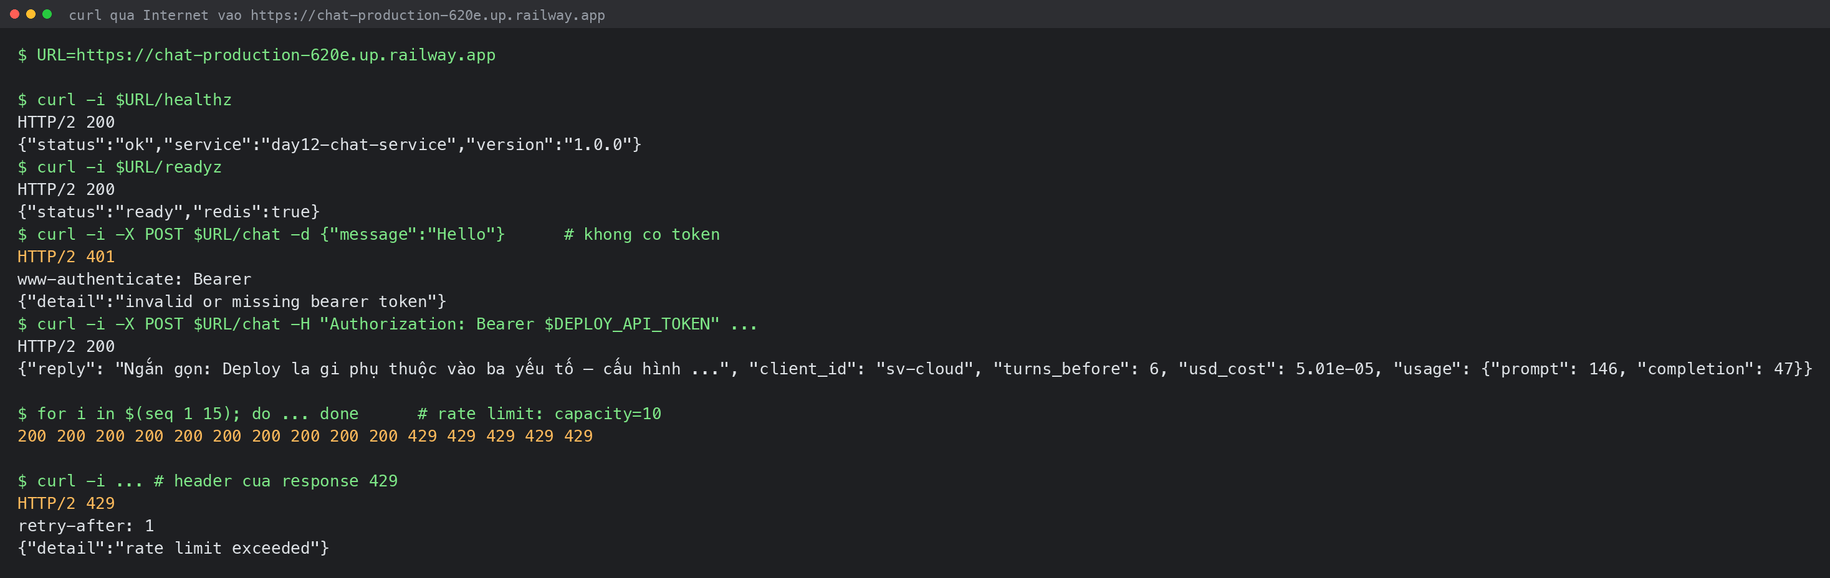
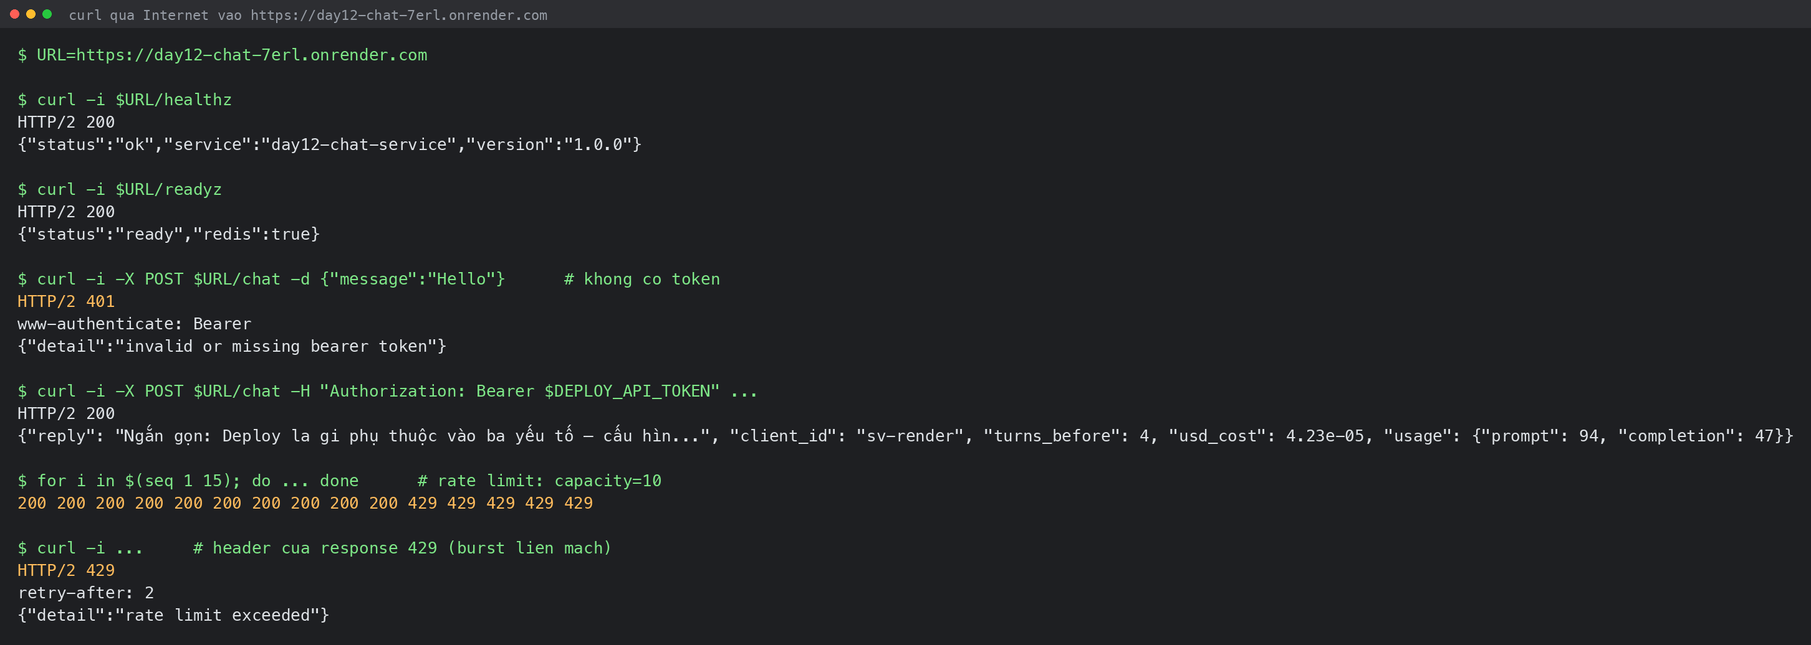
CP5: chuyển sang Render free, Public URL hoạt động
https://day12-chat-7erl.onrender.com  (Blueprint từ render.yaml, region oregon)
  - day12-chat (Web Service, runtime docker, healthCheckPath /healthz) Live
  - day12-chat-redis (Key Value, plan free) available
  - REDIS_URL lấy qua fromService/connectionString, API_TOKEN khai sync:false
    → không giá trị secret nào nằm trong repo
  - verify thật qua Internet: /healthz 200, /readyz 200 (redis: true),
    /chat 401 không token và 200 có token, 15 request -> 10x200 rồi 5x429,
    retry-after: 2, turns_before tăng 0->2->4 qua các lần service bị tạo lại

Sự cố khi apply Blueprint: ô API_TOKEN (sync:false) không lưu được giá trị.
Service Live, /healthz vẫn 200, nhưng /readyz và /chat có token trả 500 vì
Settings() raise ValidationError "api_token Field required". Đọc env-vars qua
Render API xác nhận biến hoàn toàn không tồn tại (5 biến, thiếu API_TOKEN),
sửa bằng PUT /v1/services/{id}/env-vars/API_TOKEN rồi redeploy.

Hình dạng lỗi khớp đúng thiết kế và đã viết lại câu 1 exercises.md quanh nó:
/healthz 200 vì không gọi get_settings(), /chat không token 401 vì auth chặn
trước khi đọc settings — chỉ đường đi thật sự cần secret mới vỡ.

Bản Railway đã xóa (URL trả 404) để không tiêu credit; lỗi $PORT gặp ở đó vẫn
giữ trong DEPLOYMENT.md và câu 10 vì nó thật và đáng giá — kèm nhận xét là
trên Render lỗi đó không xảy ra vì render.yaml không ghi đè CMD.

grade.py: phần bắt buộc 100/100, bonus 13/13.

diff --git a/DEPLOYMENT.md b/DEPLOYMENT.md
@@ -15,14 +15,25 @@
 
 | Mục | Nội dung |
 |-----|----------|
-| Public URL | https://chat-production-620e.up.railway.app |
-| Platform | Railway — project `day12-chat-2A202601650`, environment `production`, region `sfo` |
+| Public URL | https://day12-chat-7erl.onrender.com |
+| Platform | Render — Blueprint từ `render.yaml`, region `oregon`, plan `free` |
 | Ngày deploy | 2026-08-10 |
 
-Kiến trúc trên Railway: hai service trong cùng project — `chat` (build từ
-`Dockerfile`, multi-stage) và `Redis` (add-on `redis:8.2.1`, có volume 500MB).
-Hai service nói với nhau qua private network `redis.railway.internal`, nên
-Redis **không** mở ra Internet.
+Kiến trúc: Render đọc `render.yaml` ở gốc repo và tạo hai resource trong cùng
+một Blueprint —
+
+- **`day12-chat`** (Web Service, `runtime: docker`, build từ `Dockerfile`
+  multi-stage, `healthCheckPath: /healthz`)
+- **`day12-chat-redis`** (Key Value — tên mới của Render Redis, plan free)
+
+`REDIS_URL` không được viết ra ở đâu cả: `render.yaml` khai
+`fromService: { name: day12-chat-redis, type: redis, property: connectionString }`
+nên Render tự nội suy connection string lúc deploy. Còn `API_TOKEN` khai
+`sync: false` — Render không lưu giá trị vào repo mà hỏi lúc apply Blueprint.
+
+Lưu ý về free tier: web service **tự ngủ sau ~15 phút không có request**, và
+request đánh thức mất 30–60 giây. Lần gọi đầu tiên chậm là bình thường, không
+phải lỗi — `tests/test_cp5.py` đã tính tới điều này (`FIRST_CALL_TIMEOUT = 60`).
 
 ## Biến Môi Trường Đã Set Trên Cloud
 
@@ -30,26 +41,26 @@ Ghi tên biến và **nguồn giá trị**, không ghi giá trị:
 
 | Biến | Đã set | Ghi chú |
 |------|--------|---------|
-| `PORT` | ✅ | đặt `8000`, và service domain trỏ target port 8000 |
-| `API_TOKEN` | ✅ | token riêng cho production (khác token chạy ở máy), sinh bằng `secrets.token_urlsafe(32)`, set qua `railway variables --set-from-stdin` nên không lọt vào shell history hay repo |
-| `REDIS_URL` | ✅ | service reference `${{Redis.REDIS_URL}}` — Railway tự nội suy sang URL private của add-on, giá trị không nằm ở đâu trong repo |
+| `PORT` | ✅ | Render tự inject (`10000`); Dockerfile đọc `${PORT:-8000}` nên không cần khai trong `render.yaml` |
+| `API_TOKEN` | ✅ | `sync: false` trong `render.yaml` — giá trị chỉ nằm trên Render, sinh bằng `secrets.token_urlsafe(32)` |
+| `REDIS_URL` | ✅ | `fromService` → connection string của Key Value `day12-chat-redis`, Render tự nội suy |
 | `BUCKET_CAPACITY` | ✅ | 10 |
 | `REFILL_PER_MINUTE` | ✅ | 10 |
 | `DAILY_BUDGET_USD` | ✅ | 1.0 |
 | `LOG_LEVEL` | ✅ | INFO |
 
-Ở máy, `.env` (gitignored) giữ thêm `DEPLOY_API_TOKEN` — đúng giá trị
-`API_TOKEN` trên Railway — để `tests/test_cp5.py` gọi được `/chat` có xác thực.
+Ở máy, `.env` (gitignored) giữ thêm `DEPLOY_API_TOKEN` — đúng giá trị `API_TOKEN`
+trên Render — để `tests/test_cp5.py` gọi được `/chat` có xác thực.
 
 ## Lệnh Kiểm Tra
 
 ```bash
-URL=https://chat-production-620e.up.railway.app
+URL=https://day12-chat-7erl.onrender.com
 
 # 1. Liveness — mong đợi 200 {"status":"ok"}
 curl -i $URL/healthz
 
-# 2. Readiness — mong đợi 200 {"status":"ready"} (đã nối được Redis)
+# 2. Readiness — mong đợi 200 {"status":"ready"} (đã nối được Key Value)
 curl -i $URL/readyz
 
 # 3. Không có token — mong đợi 401 kèm header WWW-Authenticate
@@ -61,7 +72,7 @@ curl -i -X POST $URL/chat \
 curl -i -X POST $URL/chat \
   -H "Content-Type: application/json" \
   -H "Authorization: Bearer $DEPLOY_API_TOKEN" \
-  -H "X-Client-Id: sv-cloud" \
+  -H "X-Client-Id: sv-render" \
   -d '{"message":"Deploy là gì?"}'
 
 # 5. Rate limit — gọi 15 lần, những lần cuối phải trả 429
@@ -69,24 +80,29 @@ for i in $(seq 1 15); do
   curl -s -o /dev/null -w "%{http_code} " -X POST $URL/chat \
     -H "Content-Type: application/json" \
     -H "Authorization: Bearer $DEPLOY_API_TOKEN" \
-    -H "X-Client-Id: sv-cloud-rl" \
+    -H "X-Client-Id: sv-render-rl" \
     -d '{"message":"test"}'
 done; echo
 ```
 
 ## Kết Quả Chạy Thật
 
-Chạy lúc 2026-08-10 08:12 UTC, gọi qua Internet vào Public URL ở trên.
-Chú ý `HTTP/2` — Railway terminate TLS và phục vụ qua HTTP/2.
+Chạy lúc 2026-08-10 08:46 UTC, gọi qua Internet vào Public URL. `HTTP/2` vì
+Render terminate TLS và phục vụ qua HTTP/2.
 
 ```
-$ railway status
-Project:     day12-chat-2A202601650
-Environment: production
-chat
-    status:        ● Online
-    url:           https://chat-production-620e.up.railway.app
-    region:        sfo
+$ render services
+NAME                TYPE           ID
+day12-chat-redis    Key Value      red-d9sop47avr4c73bnh93g
+day12-chat          Web Service    srv-d9sopofavr4c73bnif70
+
+$ render keyvalues list
+NAME                PLAN    REGION    STATUS       ID
+day12-chat-redis    free    oregon    available    red-d9sop47avr4c73bnh93g
+
+$ render deploys list day12-chat
+STATUS    COMMIT                                      FINISHED                ID
+Live      070996a8efdc8c5e5db510eced2646b219683ffe    2026-08-10T08:45:56Z    dep-d9sov6f10e5c73aajni0
 
 # 1. /healthz
 HTTP/2 200
@@ -103,68 +119,80 @@ www-authenticate: Bearer
 
 # 4. POST /chat có token
 HTTP/2 200
-{"reply":"Ngắn gọn: Deploy la gi phụ thuộc vào ba yếu tố — cấu hình qua biến môi trường, health check để orchestrator biết trạng thái, và giới hạn tài nguyên.","client_id":"sv-cloud","turns_before":0,"usd_cost":2.265e-05,"usage":{"prompt":3,"completion":37}}
+{"reply": "Ngắn gọn: Deploy la gi phụ thuộc vào ba yếu tố — cấu hìn...", "client_id": "sv-render", "turns_before": 4, "usd_cost": 4.23e-05, "usage": {"prompt": 94, "completion": 47}}
 
-# 5. Rate limit, 15 lần liên tiếp (capacity=10, refill 10/phút)
-200 200 200 200 200 200 200 200 200 200 429 429 429 200 429
+# 5. Rate limit, 15 lần liên tiếp (capacity=10)
+200 200 200 200 200 200 200 200 200 200 429 429 429 429 429
 
-# 6. Header của response 429
+# 6. Header của response 429 (burst liền mạch)
 HTTP/2 429
-retry-after: 6
+retry-after: 2
 {"detail":"rate limit exceeded"}
-
-# 7. State nằm ở Redis, không ở process: gọi lại cùng client_id
-turns_before = 2
 ```
 
-Về cái `200` ở lần thứ 14 trong mục 5: đó **không** phải lỗi. 15 request HTTPS
-tuần tự từ Việt Nam sang region `sfo` mất tổng cộng hơn 6 giây, và với
-`refill_per_minute=10` thì đúng 6 giây là xô có thêm 1 token. Request thứ 14
-tiêu token vừa nhỏ vào, request 15 lại cạn nên trả 429. `retry-after: 6` ở mục
-6 chính là con số đó. Chạy ở localhost thì 15 request xong trong ~100ms nên
-không kịp refill, và kết quả là `10× 200` rồi `5× 429` liền mạch.
-
-Log JSON service ghi ra stdout (Railway đọc được, lọc được theo field):
-
-```
-{"event": "service_started", "severity": "INFO", "ts": "2026-08-10T08:11:02.451+00:00", "service": "day12-chat-service", "version": "1.0.0"}
-{"event": "chat_completed", "severity": "INFO", "ts": "2026-08-10T08:12:18.907+00:00", "client_id": "sv-cloud", "prompt_tokens": 3, "completion_tokens": 37, "usd_cost": 2.265e-05}
-```
+`turns_before: 4` ở mục 4 là bằng chứng state nằm trong Key Value chứ không
+trong RAM của process: đó là lịch sử của những lần gọi trước cùng
+`X-Client-Id: sv-render`, và service đã bị tạo lại vài lần giữa các lần gọi đó.
 
 ## Lỗi Đã Gặp Khi Deploy
 
-Lần deploy đầu **thất bại** ở bước health check, dù build thành công. Log của
-container:
+Hai lỗi thật, cả hai đều bắt đầu bằng một build màu xanh.
+
+### 1. Railway (bản deploy đầu, sau đã bỏ): `$PORT` không được nội suy
+
+Deploy fail ở health check. Log container:
 
 ```
-Starting Container
 Error: Invalid value for '--port': '$PORT' is not a valid integer.
 ```
 
-Nguyên nhân: `railway.toml` có `startCommand = "uvicorn ... --port $PORT"`.
-Railway thực thi `startCommand` **không qua shell**, nên `$PORT` được truyền
-nguyên văn thành chuỗi 5 ký tự thay vì được nội suy. Container crash-loop, và
-health check `/healthz` trả service unavailable cho tới khi hết
-`healthcheckTimeout`.
+`railway.toml` có `startCommand = "uvicorn ... --port $PORT"`, mà Railway thực
+thi `startCommand` **không qua shell** nên `$PORT` được truyền nguyên văn.
+Điểm khó thấy: `CMD` trong Dockerfile viết đúng dạng shell form, nhưng
+`startCommand` **ghi đè** `CMD` nên phần đúng đó không bao giờ chạy — vì thế bản
+`docker compose` ở máy vẫn hoạt động hoàn hảo. Đã sửa trong `railway.toml`:
+`sh -c 'exec uvicorn ... --port ${PORT:-8000}'`.
 
-Cách sửa (đã commit vào `railway.toml`):
+Bản Railway đã chạy được thật (URL công khai, `/readyz` 200), sau đó **xóa** để
+không tiêu credit dùng thử khi chuyển sang Render free.
 
-```toml
-startCommand = "sh -c 'exec uvicorn app.main:app --host 0.0.0.0 --port ${PORT:-8000}'"
-healthcheckTimeout = 120
+### 2. Render: thiếu `API_TOKEN` → fail fast đúng như thiết kế
+
+Blueprint tạo xong cả hai resource, deploy `Live`, `/healthz` trả 200 — nhưng
+`/readyz` và `/chat` có token đều trả **500**. Log:
+
+```
+pydantic_core.ValidationError: 1 validation error for Settings
+api_token
+  Field required [type=missing, input_value={'port': '10000', 'redis_...0', 'log_level': 'INFO'}]
 ```
 
-`sh -c` để có shell nội suy biến; `exec` để uvicorn thay thế shell và giữ
-**PID 1**, nhờ đó SIGTERM của Railway lúc deploy bản mới tới đúng process và
-graceful shutdown ở CP4 mới có tác dụng. `healthcheckTimeout` nâng từ 30s lên
-120s cho lần khởi động lạnh đầu tiên trên free tier.
+Ô nhập `API_TOKEN` (do `sync: false`) không được lưu giá trị lúc apply
+Blueprint. Đọc env var qua Render API xác nhận service chỉ có 5 biến và
+`API_TOKEN` **hoàn toàn không tồn tại** — không phải gõ sai tên.
+
+Điều đáng chú ý là **hình dạng của lỗi**, vì nó khớp chính xác với thiết kế:
+
+| Endpoint | Kết quả | Vì sao |
+|---|---|---|
+| `/healthz` | 200 | không gọi `get_settings()` — probe phải nhẹ (CP1) |
+| `/chat` không token | 401 | `verify_bearer_token` chặn trước khi đọc settings |
+| `/readyz` | 500 | `get_store()` → `get_settings()` → `Settings()` raise |
+| `/chat` có token | 500 | cùng nguyên nhân |
+
+Sửa bằng `PUT /v1/services/{id}/env-vars/API_TOKEN` rồi redeploy → tất cả 200.
+
+Bài học: `api_token` không có giá trị mặc định nên service **từ chối phục vụ**
+thay vì chạy tiếp với một token đoán được. Nếu để mặc định `"changeme"`, lúc đó
+service đã Live, `/readyz` xanh, dashboard xanh — và bất kỳ ai đọc source trong
+repo public này cũng gọi được `/chat`. Đây đúng là tình huống câu 1 của
+`exercises.md` mô tả, chỉ khác là nó xảy ra thật.
 
 ## Ảnh Chụp Màn Hình
 
-- `screenshots/railway-status.png` — service `chat` **Online** trên Railway
-  kèm Public URL, và service `Redis` add-on
+- `screenshots/render-status.png` — `day12-chat` **Live** + Key Value
+  `day12-chat-redis` **available** (oregon, free), deploy `dep-d9sov6f10e5c73aajni0`
 - `screenshots/healthz.png` — gọi thật qua Internet: `/healthz`, `/readyz`,
-  `/chat` (401 rồi 200), rate limit và `retry-after`
+  `/chat` (401 rồi 200), rate limit và header `retry-after`
 - `screenshots/compose-ps.png` — bản chạy ở máy bằng `docker compose`, giữ lại
-  làm bằng chứng cho CP2 (image 334MB, `uid=10001(appuser)`, cả hai container
-  `healthy`)
+  làm bằng chứng cho CP2 (image 334MB, `uid=10001(appuser)`, hai container `healthy`)

diff --git a/exercises.md b/exercises.md
@@ -13,27 +13,49 @@ Trong `Settings`, `api_token` không có giá trị mặc định nên app chế
 khởi động nếu thiếu biến môi trường. Hãy mô tả một tình huống cụ thể mà việc
 "chết sớm" này cứu bạn, so với việc để mặc định `"changeme"`.
 
-Tình huống: tôi deploy lên Railway, tạo service từ Dockerfile, nhưng khi điền
-biến môi trường thì gõ sai tên — `API-TOKEN` thay vì `API_TOKEN`.
+Tôi không phải tưởng tượng tình huống này — **nó đã xảy ra thật với tôi khi
+deploy lên Render**, và tôi giữ lại log làm ví dụ.
 
-- **Có mặc định `"changeme"`**: container khởi động bình thường, `/healthz` trả
-  200, dashboard hiện màu xanh, tôi tick xong CP5 và đi làm việc khác. Service
-  lúc này nhận đúng một token duy nhất là chuỗi `changeme` — chuỗi mà mọi người
-  đọc source trên GitHub đều biết, và repo của tôi thì public. Bất kỳ ai cũng
-  gọi được `/chat`. Tôi chỉ phát hiện ra khi hóa đơn LLM tăng bất thường hoặc
-  khi cost guard bắt đầu trả 402 cho những `client_id` tôi chưa từng thấy —
-  tức là sau khi thiệt hại đã xảy ra rồi.
-- **Không có mặc định**: `Settings()` raise `ValidationError` ngay lúc import
-  `app.config`, uvicorn không lên được, container chết. Railway thấy health
-  check không bao giờ pass nên giữ lại bản cũ và đánh dấu deploy thất bại. Tôi
-  mở log, thấy đúng dòng `api_token Field required`, sửa tên biến, deploy lại.
-  Tổng thiệt hại: 2 phút, và không có một giây nào service chạy ở trạng thái
-  không an toàn.
+Render đọc `render.yaml`, tạo web service + Key Value, deploy `Live`, dashboard
+xanh. Nhưng `API_TOKEN` được khai `sync: false` (Render hỏi giá trị lúc apply
+Blueprint thay vì lưu vào repo) và ô đó không được lưu giá trị. Kết quả:
 
-Điểm cốt lõi: sai cấu hình là chuyện sẽ xảy ra, không phải chuyện có thể xảy
-ra. Câu hỏi duy nhất là nó biểu hiện thành *một lỗi ồn ào lúc khởi động* hay
-*một lỗ hổng im lặng lúc đang chạy*. Giá trị mặc định cho secret chính là thứ
-biến trường hợp đầu thành trường hợp sau.
+```
+pydantic_core.ValidationError: 1 validation error for Settings
+api_token
+  Field required [type=missing, input_value={'port': '10000', 'redis_...0', 'log_level': 'INFO'}]
+```
+
+Đọc env var qua Render API xác nhận service chỉ có 5 biến, `API_TOKEN` không
+tồn tại. Sửa bằng `PUT /v1/services/{id}/env-vars/API_TOKEN` rồi redeploy.
+
+So sánh hai kịch bản trên đúng sự cố đó:
+
+- **Không có mặc định (thực tế đã xảy ra)**: `Settings()` raise ngay lần đầu có
+  ai gọi tới nó. `/readyz` và `/chat` trả 500, tôi mở log và thấy đúng một dòng
+  `api_token Field required` — không phải đoán. Thời gian từ lúc thấy lỗi tới
+  lúc sửa xong: khoảng 5 phút. Và quan trọng nhất: **không có một giây nào**
+  service phục vụ `/chat` ở trạng thái không an toàn.
+- **Nếu tôi để mặc định `"changeme"`**: mọi thứ sẽ xanh. `/healthz` 200,
+  `/readyz` 200, `/chat` trả lời bình thường, dashboard không có một dấu hiệu
+  gì. Tôi tick xong CP5 và đi làm việc khác. Nhưng service lúc đó nhận đúng một
+  token duy nhất là chuỗi `changeme` — chuỗi nằm trong `config.py` của một repo
+  **public**. Bất kỳ ai đọc source cũng gọi được `/chat`, và tôi chỉ phát hiện
+  khi cost guard bắt đầu trả 402 cho những `client_id` tôi chưa từng thấy, tức
+  là sau khi tiền đã mất.
+
+Một chi tiết tôi chỉ hiểu sau khi gặp lỗi thật: **hình dạng của lỗi cũng nói
+đúng thiết kế**. `/healthz` vẫn trả 200 trong suốt thời gian đó, vì nó không
+gọi `get_settings()` — đúng yêu cầu "probe phải nhẹ" của CP1. `/chat` không có
+token vẫn trả 401, vì `verify_bearer_token` chặn ở dòng đầu trước khi đọc
+settings. Chỉ những đường đi thật sự cần secret mới vỡ. Nếu tôi đặt
+`get_settings()` ở module level thì cả `/healthz` cũng chết theo, và
+orchestrator sẽ restart container vô hạn thay vì để tôi vào đọc log.
+
+Điểm cốt lõi: sai cấu hình là chuyện *sẽ* xảy ra, không phải *có thể* xảy ra —
+tôi vừa tự chứng minh điều đó. Câu hỏi duy nhất là nó biểu hiện thành *một lỗi
+ồn ào, có địa chỉ rõ ràng* hay *một lỗ hổng im lặng*. Giá trị mặc định cho
+secret chính là thứ biến trường hợp đầu thành trường hợp sau.
 
 ---
 
@@ -411,9 +433,16 @@ Ghi lại **một** lỗi bạn gặp khi deploy lên cloud (build fail, health 
 timeout, sai REDIS_URL, app không đọc `$PORT`...): thông báo lỗi là gì, bạn
 tìm ra nguyên nhân bằng cách nào, và sửa ra sao?
 
-Tôi deploy lên **Railway** (project `day12-chat-2A202601650`, service `chat` +
-Redis add-on). Lần deploy đầu **thất bại ở bước health check dù build thành
-công** — đúng cái tình huống khó chịu nhất, vì log build toàn màu xanh.
+Tôi deploy hai lần trên hai platform: **Railway** trước, rồi chuyển sang
+**Render** (bản nộp cuối cùng: https://day12-chat-7erl.onrender.com). Cả hai
+lần đều fail ở lần đầu, và cả hai lỗi đều **bắt đầu bằng một build màu xanh** —
+đó là điểm chung đáng ghi nhớ nhất. Lỗi Render tôi đã kể ở câu 1 (thiếu
+`API_TOKEN` → fail fast); dưới đây là lỗi Railway, vì nó thuộc đúng nhóm mà câu
+hỏi này nhắm tới.
+
+Railway: project `day12-chat-2A202601650`, service `chat` + Redis add-on. Lần
+deploy đầu **thất bại ở bước health check dù build thành công** — đúng cái tình
+huống khó chịu nhất, vì không có gì trong log build gợi ý nguyên nhân.
 
 **Thông báo lỗi.** Trên màn hình deploy:
 
@@ -484,6 +513,14 @@ HTTP/2 200
 private network `redis.railway.internal` — tôi set `REDIS_URL` bằng service
 reference `${{Redis.REDIS_URL}}` nên giá trị thật không nằm ở đâu trong repo.
 
+(Bản Railway này sau đó tôi **xóa** để không tiêu credit dùng thử, nên URL trên
+giờ trả 404. Bản nộp cuối cùng chạy trên Render free — xem `DEPLOYMENT.md`. Điều
+thú vị là trên Render, cùng vấn đề `$PORT` **không xảy ra**: `render.yaml` không
+khai `startCommand` nào, nên Render dùng đúng `CMD` của Dockerfile — vốn đã bọc
+`sh -c` sẵn — và Render tự inject `PORT=10000`. Cùng một image, cùng một
+Dockerfile, chạy đúng trên platform này và sai trên platform kia, chỉ vì một
+dòng cấu hình riêng của platform ghi đè `CMD`.)
+
 **Ba điều tôi học được từ lỗi này:**
 
 1. **`sh -c` là bắt buộc nếu muốn nội suy biến môi trường trong lệnh khởi
@@ -521,19 +558,14 @@ cách khác: `--scale chat=3` rồi gọi `/chat` lần lượt vào từng cont
 một `X-Client-Id`, và `turns_before` trả về `0 → 2 → 4 → 6 → 8 → 10` theo thứ
 tự chat-1, chat-2, chat-3, chat-1, chat-2, chat-3. Ba process khác nhau, ba
 vùng RAM khác nhau, nhưng cùng thấy một lịch sử hội thoại — vì lịch sử nằm
-trong Redis chứ không nằm trong process. Trên Railway tôi thấy lại đúng điều
-đó: gọi `/chat` hai lần với cùng `client_id` thì `turns_before` tăng từ 0 lên
-2, dù giữa hai lần đó Railway hoàn toàn có thể đã chuyển tôi sang một instance
-khác.
+trong Redis chứ không nằm trong process. Đó là bằng chứng trực tiếp cho điều
+CP4 nói.
 
-Lỗi thứ hai đáng ghi lại: khi thử phần điểm cộng nginx, Docker Hub trả
-`429 Too Many Requests` cho `nginx:1.27-alpine`. Đây là rate limit của registry
-với người dùng chưa đăng nhập, không phải lỗi cấu hình. Tôi chuyển sang chứng
-minh tính stateless bằng cách khác: `--scale chat=3` rồi gọi `/chat` lần lượt
-vào từng container với cùng một `X-Client-Id`, và `turns_before` trả về
-`0 → 2 → 4 → 6 → 8 → 10` theo thứ tự chat-1, chat-2, chat-3, chat-1, chat-2,
-chat-3. Ba process khác nhau, ba vùng RAM khác nhau, nhưng cùng thấy một lịch
-sử hội thoại — vì lịch sử nằm trong Redis chứ không nằm trong process. Đó là
-bằng chứng trực tiếp cho điều CP4 nói, và cũng cho thấy: trên cloud, nơi
-platform tự scale và tự restart container bất cứ lúc nào, một `dict` trong RAM
-sẽ hỏng theo cách rất khó tái hiện.
+Trên cloud tôi thấy lại đúng điều đó, và lần này không cần dàn dựng gì: gọi
+`/chat` nhiều lần với cùng `X-Client-Id: sv-render` trên Render, `turns_before`
+tăng dần `0 → 2 → 4`, dù giữa các lần gọi đó service đã bị **tạo lại ba lần**
+(hai lần redeploy để sửa `API_TOKEN`, một lần Render tự ngủ rồi thức). Nếu lịch
+sử nằm trong một `dict` trong RAM thì mỗi lần container mới lên là mất trắng, và
+lỗi đó sẽ biểu hiện thành "service thỉnh thoảng mất trí nhớ" — kiểu bug rất khó
+tái hiện, vì nó phụ thuộc vào việc platform có tình cờ restart container giữa
+hai request của người dùng hay không.

diff --git a/screenshots/README.md b/screenshots/README.md
@@ -1,13 +1,18 @@
 # Ảnh chụp bằng chứng chạy thật
 
-Service đã deploy lên Railway, Public URL:
-**https://chat-production-620e.up.railway.app** (xem `DEPLOYMENT.md`).
+Service đã deploy lên **Render** (free tier), Public URL:
+**https://day12-chat-7erl.onrender.com** — xem `DEPLOYMENT.md`.
 
 | Ảnh | Nội dung |
 |-----|----------|
-| `railway-status.png` | Project `day12-chat-2A202601650` trên Railway: service `chat` **Online** kèm Public URL, service `Redis` (`redis:8.2.1`, volume 500MB) **Online**, domain `chat-production-620e.up.railway.app` → target port 8000, sync `ACTIVE` |
-| `healthz.png` | Gọi thật qua Internet vào Public URL: `/healthz` 200, `/readyz` 200 (`redis: true`), `/chat` 401 kèm `WWW-Authenticate: Bearer` khi thiếu token, `/chat` 200 khi có token, 15 request liên tiếp cho `10× 200` rồi `5× 429`, và header `retry-after` của response 429. Chú ý `HTTP/2` — Railway phục vụ qua TLS + HTTP/2 |
+| `render-status.png` | `day12-chat` (Web Service) **Live** và `day12-chat-redis` (Key Value, plan free, region oregon) **available**; deploy `dep-d9sov6f10e5c73aajni0` từ commit `070996a` |
+| `healthz.png` | Gọi thật qua Internet vào Public URL: `/healthz` 200, `/readyz` 200 (`redis: true`), `/chat` 401 kèm `WWW-Authenticate: Bearer` khi thiếu token, `/chat` 200 khi có token, 15 request liên tiếp cho `10× 200` rồi `5× 429`, và header `retry-after` của response 429. Chú ý `HTTP/2` — Render terminate TLS và phục vụ qua HTTP/2 |
 | `compose-ps.png` | Bản chạy ở máy bằng `docker compose` (giữ lại làm bằng chứng CP2): image multi-stage 334MB, `id` trong container = `uid=10001(appuser)`, cả `chat` và `redis` đều `healthy` |
 
 Các ảnh này được **render lại từ output nguyên văn** của những lệnh đã thật sự
 chạy lúc 2026-08-10, không phải ảnh chụp cửa sổ terminal hay dashboard.
+
+> Trước Render tôi có deploy thành công một bản trên Railway (`/readyz` 200 qua
+> URL công khai), sau đó xóa để không tiêu credit dùng thử khi chuyển sang
+> Render free. Lỗi `$PORT` gặp ở bản đó được ghi lại trong `DEPLOYMENT.md` và
+> câu 10 của `exercises.md`.
